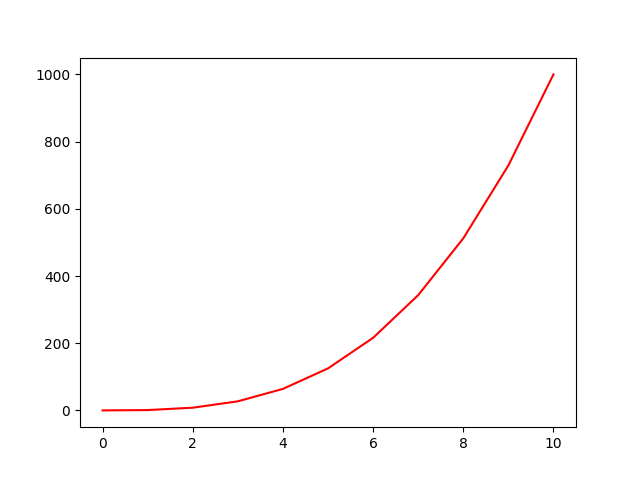
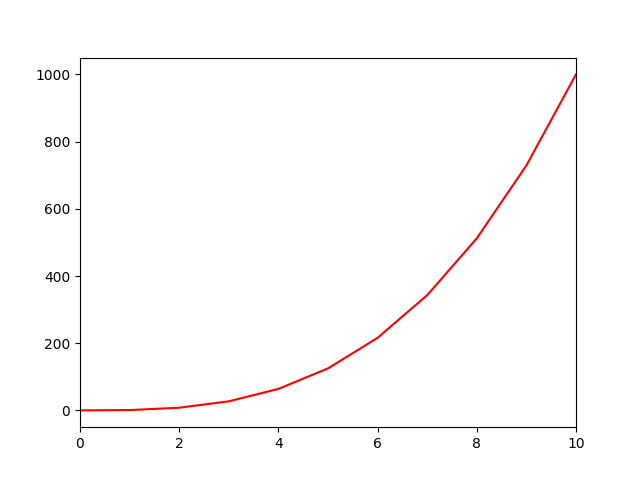
push task0

diff --git a/math/plotting/0-line.py b/math/plotting/0-line.py
@@ -15,7 +15,7 @@ def line():
     # Crée un tableau de 0 à 10 au cube (valeur de l'axe y)
     plt.figure(figsize=(6.4, 4.8))
     # Crée la nouvelle figure (zone graphique)
-    x = np.arange(0, 11)
+    x = np.arange(0, 10)
     # Crée un tableau de 0 à 10 (valeur de l'axe x)
     plt.plot(x, y, 'r-')
     # Trace les points x[i], y[i] (Chaque valeur x[i] correspond à y[i])
